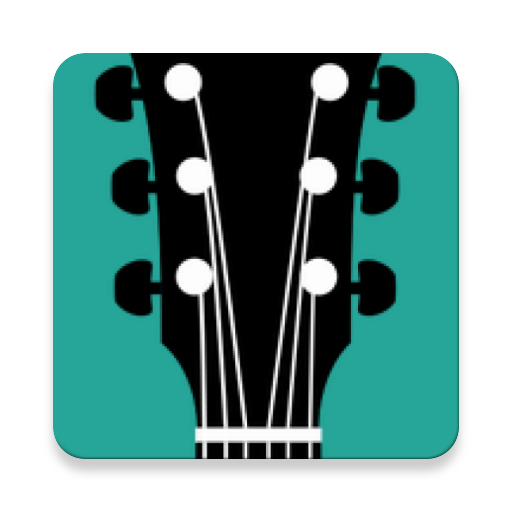
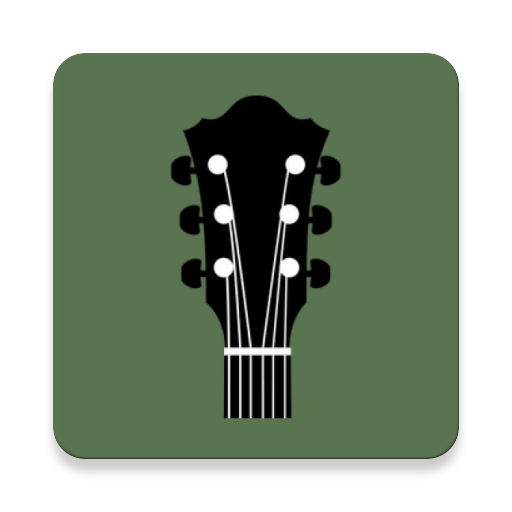
wygląd aktywności z stroikiem + zmiana ikony aplikacji

diff --git a/app/src/main/java/com/rowicka/gitartuner/tuner/TunerActivity.java b/app/src/main/java/com/rowicka/gitartuner/tuner/TunerActivity.java
@@ -23,8 +23,6 @@ import be.tarsos.dsp.pitch.PitchDetectionHandler;
 import be.tarsos.dsp.pitch.PitchDetectionResult;
 import be.tarsos.dsp.pitch.PitchProcessor;
 
-//todo zmiana wyglądu dla spinnera !!!
-
 public class TunerActivity extends Activity {
 
 
@@ -37,6 +35,8 @@ public class TunerActivity extends Activity {
     int frequencyReq = 0;
 
 
+    private int[] correctSeq;
+
     @Override
     protected void onCreate(Bundle savedInstanceState) {
         super.onCreate(savedInstanceState);
@@ -46,6 +46,9 @@ public class TunerActivity extends Activity {
 
         final Switch autoTuneSwitch = (Switch) findViewById(R.id.autoTune);
         final Spinner spinner = (Spinner) findViewById(R.id.spinnerTuner);
+
+        //////////
+        spinner.setSelection(2);
 
         strings = new TextView[]{
                 (TextView) findViewById(R.id.stringText1),
@@ -65,9 +68,13 @@ public class TunerActivity extends Activity {
                 (ConstraintLayout) findViewById(R.id.string6)
         };
 
+        correctSeq = new int[]{0,1,0,0,0,1};
+
+
         spinner.setOnItemSelectedListener(new AdapterView.OnItemSelectedListener() {
             @Override
             public void onItemSelected(AdapterView<?> adapterView, View view, int position, long id) {
+                clearStringsColor();
                 String[] notes = adapterView.getItemAtPosition(position).toString().split(" ");
 
                 for (int i = 0; i < notes.length / 2; i++) {
@@ -110,7 +117,7 @@ public class TunerActivity extends Activity {
                                 frequencyReq = Integer.parseInt(Notes.getArray().get(finalI)[1]);
 
                                 closeThread();
-                                stringsBack[finalI].setBackgroundColor(getResources().getColor(R.color.colorAccent));
+                                setChoosenAndNotCorect(finalI);
                                 checkPitch(finalI);
 
                             }
@@ -133,6 +140,7 @@ public class TunerActivity extends Activity {
             public void onCheckedChanged(CompoundButton compoundButton, boolean isChecked) {
                 if (isChecked) {
                     closeThread();
+                    clearStringsColor();
                     getPitch();
                 } else {
                     closeThread();
@@ -193,9 +201,9 @@ public class TunerActivity extends Activity {
                 runOnUiThread(new Runnable() {
                     @Override
                     public void run() {
-                        process(pitchInHz);
-                        if (Math.abs(frequencyReq - pitchInHz) == 0)
-                            stringsBack[position].setBackgroundColor(Color.GREEN);
+                        process(pitchInHz, position);
+//                        if (Math.abs(frequencyReq - pitchInHz) == 0)
+//                            stringsBack[position].setBackgroundColor(Color.GREEN);
                     }
                 });
             }
@@ -210,21 +218,49 @@ public class TunerActivity extends Activity {
 
     public void clearStringsColor() {
         for (int i = 0; i < stringsBack.length; i++) {
-            stringsBack[i].setBackgroundColor(getResources().getColor(R.color.greyBackground));
+            setNotChoosenAndNotCorect(i);
+            correctSeq[i] = 0;
         }
+    }
+
+    public void setChoosenAndCorect(int position){
+        stringsBack[position].setBackground(getResources().getDrawable(R.drawable.ic_circle_yellow_green));
+        strings[position].setTextColor(getResources().getColor(R.color.text));
+        correctSeq[position] = 1;
+    }
+
+    public void setNotChoosenAndCorect(int position){ //todo zostawić te które są pooprawne po zaznaczeniu lub znacznej zmianie
+        stringsBack[position].setBackground(getResources().getDrawable(R.drawable.ic_circle_green));
+        strings[position].setTextColor(getResources().getColor(R.color.green));
+    }
+
+    public void setChoosenAndNotCorect(int position){
+        stringsBack[position].setBackground(getResources().getDrawable(R.drawable.ic_circle_accent));
+        strings[position].setTextColor(getResources().getColor(R.color.colorAccent));
+        correctSeq[position] = 0;
+    }
+
+    public void setNotChoosenAndNotCorect(int position){
+        stringsBack[position].setBackground(getResources().getDrawable(R.drawable.ic_circle_yellow));
+        strings[position].setTextColor(getResources().getColor(R.color.text));
     }
 
     public void processPitch(float pitchInHz) {
         TextView pitchText = (TextView) findViewById(R.id.pitchText);
-        clearStringsColor();
         String[] array = Notes.getNote(String.valueOf(pitchInHz));
         if (array != null) {
-            stringsBack[Notes.positionOfString(array[0])].setBackgroundColor(getResources().getColor(R.color.colorAccent));
-//            strings[Notes.positionOfString(array[0])].setTextColor(getResources().getColor(R.color.colorAccent));
-            if (Float.parseFloat(array[1]) > 0) {
-                pitchText.setText("+" + array[1]);
-            }else {
+
+            if (Float.parseFloat(array[1]) == 0){
                 pitchText.setText(array[1]);
+                setChoosenAndCorect(Notes.positionOfString(array[0]));
+            }else{
+                setChoosenAndNotCorect(Notes.positionOfString(array[0]));
+                if (pitchInHz - frequencyReq > 0) {
+                    pitchText.setText(array[1]);
+                }
+                else {
+                    pitchText.setText("+"+array[1]);
+                }
             }
 
         }else{
@@ -232,16 +268,25 @@ public class TunerActivity extends Activity {
         }
     }
 
-    public void process(float pitchInHz){
+    public void process(float pitchInHz, int position){
         TextView pitchText = (TextView) findViewById(R.id.pitchText);
 
         if ((pitchInHz > -1.0)) {
             int diff = (int) (pitchInHz - frequencyReq);
-            if (pitchInHz - frequencyReq > 0) {
-                pitchText.setText("+"+diff);
-            } else {
+
+            if (diff == 0){
                 pitchText.setText(diff);
+                setChoosenAndCorect(position);
+            }else{
+                setChoosenAndNotCorect(position);
+                if (pitchInHz - frequencyReq > 0) {
+                    pitchText.setText(diff);
+                }
+                else {
+                    pitchText.setText("+"+diff);
+                }
             }
+
         } else {
             pitchText.setText(" ");
         }

diff --git a/app/src/main/java/com/rowicka/gitartuner/MainActivity.java b/app/src/main/java/com/rowicka/gitartuner/MainActivity.java
@@ -72,8 +72,6 @@ public class MainActivity extends Activity {
         });
     }
 
-
-    //todo 7 skupić się na wyglądzie
     //todo 8 może nauka tabów??
 
 
